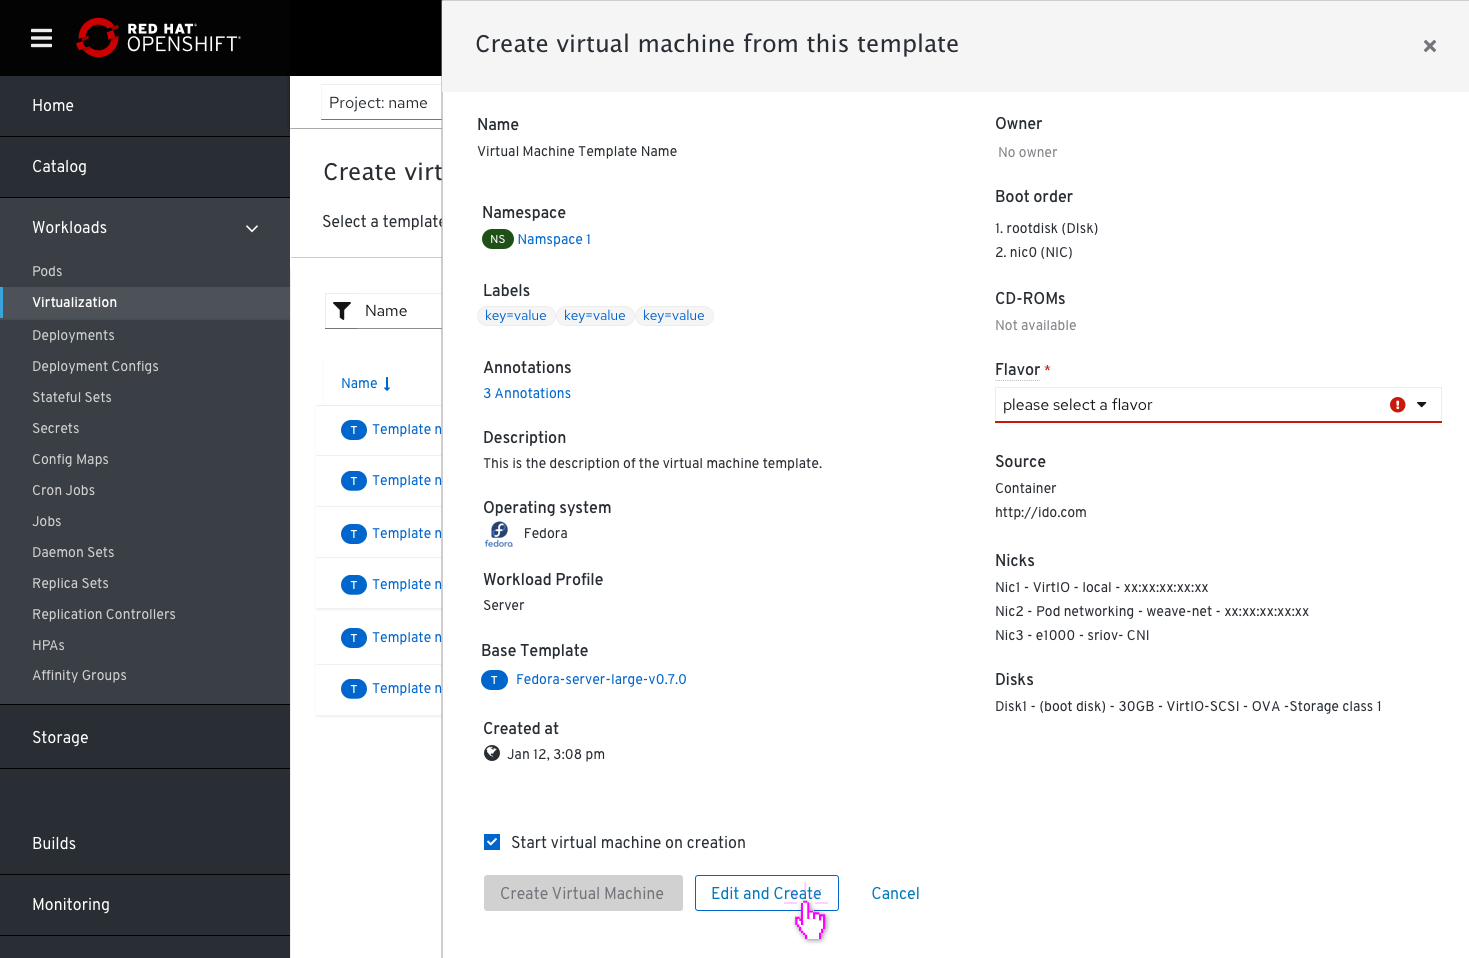
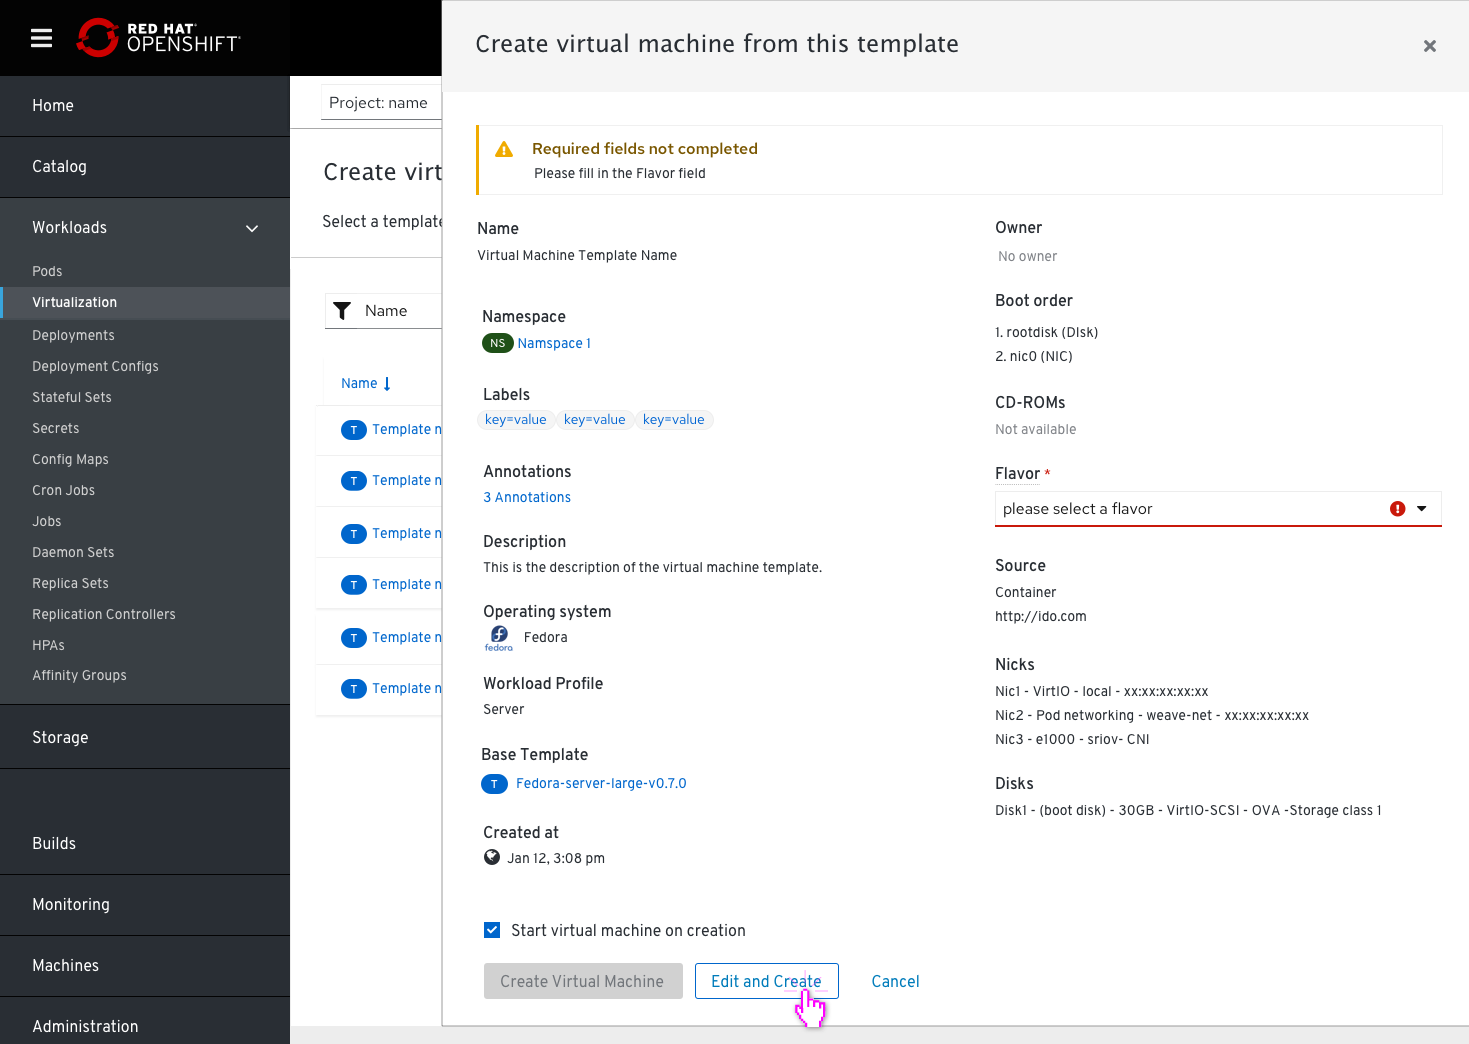
textual updates and adding notification

diff --git a/designs/virtualization/4.x/Templates/Templates.md b/designs/virtualization/4.x/Templates/Templates.md
@@ -35,7 +35,7 @@ they will get to the first page of the wizard (note that the template field is r
 They will get a list of templates to select from.
 ![List of all the Templates](img/ListOfTemplates.png)
 
-In case a user selects a template that has required fields that are missing, these fields will be popped out and the 'create VM' button will become disabled until they are edited.
+In case a user selects a template that has required fields that are missing, users will be notified about that via a notification. These fields will be popped out and the 'create VM' button will become disabled until they are edited.
 
 ![If a required field is missing](img/RequiredFieldsMissing.png)
 
